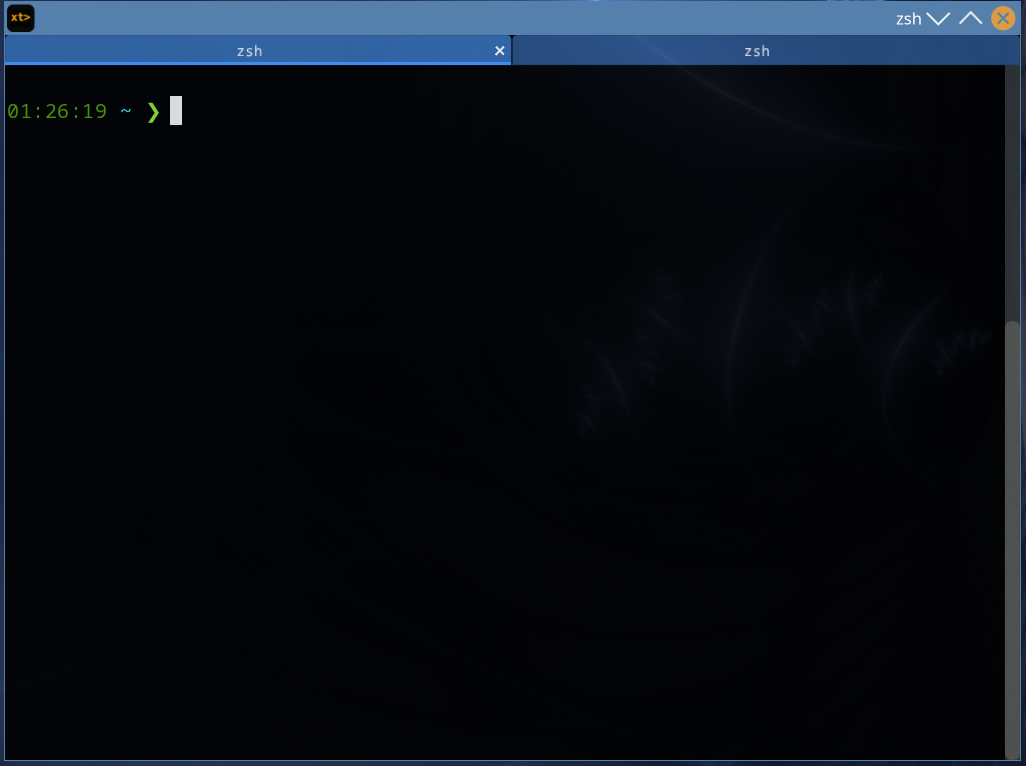
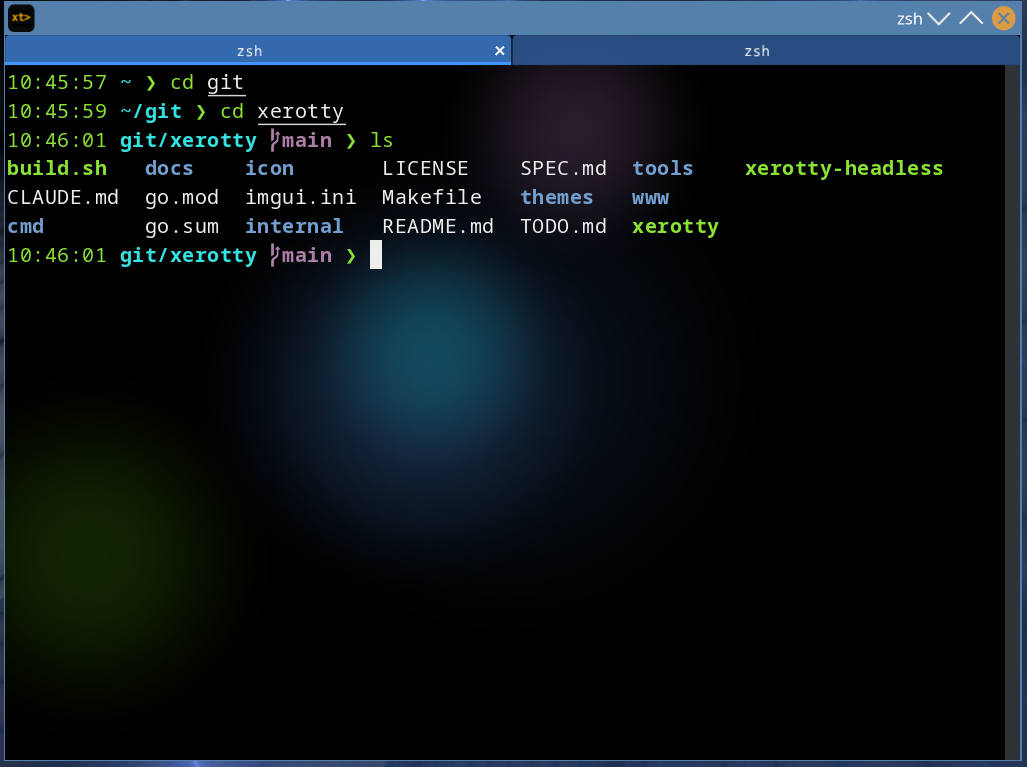
www + docs: lava lamp feature, GitHub CTA, new screenshot
Site: hero gets a View-on-GitHub button plus a placeholder Downloads
chip (commented-out release link ready for when releases exist),
fresh screenshot showing the glow backdrop, and a Lava lamp feature
row. README/TODO note the feature.

diff --git a/www/index.html b/www/index.html
@@ -279,6 +279,38 @@ nav .links a:hover {
   line-height: 1.5;
 }
 
+/* ── cta buttons ── */
+.cta {
+  display: flex;
+  gap: 12px;
+  margin-top: 22px;
+  flex-wrap: wrap;
+}
+.btn {
+  display: inline-block;
+  padding: 9px 18px;
+  border: 1px solid var(--accent);
+  border-radius: 6px;
+  color: var(--accent);
+  text-decoration: none;
+  font-size: 0.92rem;
+  letter-spacing: 0.02em;
+  transition: background 0.15s ease, color 0.15s ease;
+}
+.btn:hover {
+  background: var(--accent-dim);
+  color: var(--fg-bright);
+}
+.btn.ghost {
+  border-color: rgba(176, 176, 176, 0.25);
+  color: var(--fg);
+  cursor: default;
+}
+.btn.ghost small {
+  opacity: 0.55;
+  margin-left: 6px;
+}
+
 /* ── features ── */
 .features {
   border-top: 1px solid var(--border);
@@ -503,9 +535,16 @@ footer {
       <span>Linux &amp; macOS</span>
     </div>
 
+    <div class="cta fade-in" style="animation-delay: 0.2s;">
+      <a class="btn" href="https://github.com/LXXero/xerotty">View on GitHub</a>
+      <!-- swap for a real release link once releases exist:
+           <a class="btn" href="https://github.com/LXXero/xerotty/releases/latest">Download</a> -->
+      <span class="btn ghost">Downloads<small>coming soon — build from source</small></span>
+    </div>
+
     <!-- screenshot -->
     <div class="terminal-frame fade-in" style="animation-delay: 0.35s;">
-      <img src="xerotty.png" alt="xerotty running on Linux — two tabs, a translucent window, and a zsh prompt"
+      <img src="xerotty.png" alt="xerotty running on Linux — tabs, a zsh prompt, and the animated lava-lamp glow backdrop"
            style="display:block; width:100%; height:auto;">
     </div>
   </div>
@@ -670,6 +709,10 @@ footer {
       <div class="feature-row">
         <div class="key">Themes</div>
         <div class="val">Dracula, Gruvbox, Monokai, Solarized, Tango bundled. Convert any iTerm2 <code>.itermcolors</code> to TOML with the included import tool. Switch at runtime.</div>
+      </div>
+      <div class="feature-row">
+        <div class="key">Lava lamp</div>
+        <div class="val">An animated glow backdrop &mdash; soft color blobs drifting behind your shell, derived from the active theme's accent colors (dracula glows purple, gruvbox glows amber). Opt-in, low-fps, stops burning cycles the instant you turn it off. Your terminal, but ambient.</div>
       </div>
       <div class="feature-row">
         <div class="key">Fonts</div>

diff --git a/README.md b/README.md
@@ -19,6 +19,7 @@ The rest follows from "no, you don't have to fight your terminal":
 - Selection that respects how you started it — single-click drags by character, double-click drags by word, triple-click drags by line, with an iTerm2-style anchor that stays put.
 - Real bold from your font's bold face when one exists, faux-bold when it doesn't (Monaco-style), drawn through the OS font system so emoji and Nerd Font glyphs Just Work without you pre-declaring atlas ranges.
 - Theming via `[colors]` blocks or full `[theme]` files, including bundled iTerm2-imported palettes and a one-shot `tools/iterm2-import.go` for converting your own.
+- A lava-lamp mode, because a terminal you stare at all day might as well be beautiful: soft animated glow blobs drifting behind the cells, colored from the active theme (`[appearance.glow]`, opt-in).
 
 ## Status
 
@@ -32,6 +33,7 @@ Working daily-driver. Recent arcs: the SDL2→SDL3 platform migration, and an op
 - Unsafe-paste detection (multiline / `sudo` / `rm -rf` / `curl | sh` patterns) with a yes/no confirm dialog
 - Process-aware tab title from terminal escape sequences (OSC 0/1/2)
 - Fullscreen (F11), runtime theme switching, font zoom (Ctrl+= / Ctrl+- / Ctrl+0)
+- Lava-lamp glow backdrop — theme-derived animated color blobs behind the cells; opt-in, low-fps self-wake only while enabled (`[appearance.glow]` or the prefs dialog)
 
 ### Selection
 - Char-precise drag (single click), word-snap drag (double click), line-snap drag (triple click)

diff --git a/TODO.md b/TODO.md
@@ -17,6 +17,7 @@
 - [x] config dialog (preferences UI; flat font picker, theme picker, keybinds, clipboard, links, etc.)
 - [x] context menu submenus — `[[menu.items.submenu]]` nested arrays in TOML
 - [x] multi-window — single process, ImGui multi-viewport, one Dock icon for N OS windows
+- [x] lava-lamp glow backdrop — animated theme-derived blobs under the cell pass (`internal/app/glow.go`); opt-in, fps-capped self-wake
 
 ### Selection
 - [x] double-click word selection (3-class: word / whitespace / punctuation)
